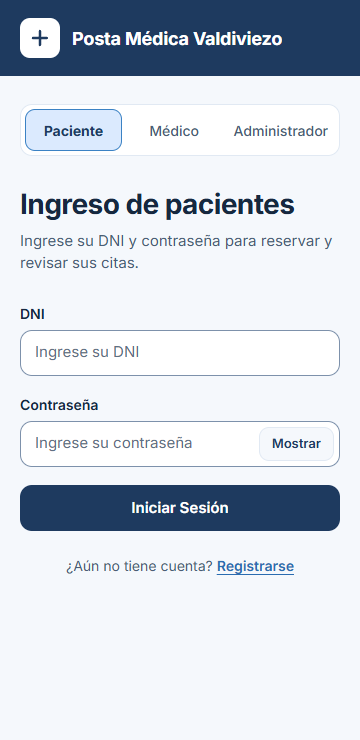
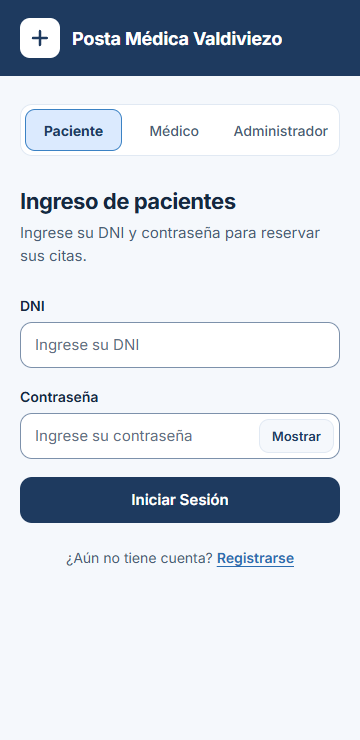
RFC-019: decisiones sobre AUD-DIS-12/09/05, catálogo E03/E04 y capturas a 360, 768, 1280 y 1920 px

diff --git a/docs/rfc/RFC-019.md b/docs/rfc/RFC-019.md
@@ -30,7 +30,7 @@ La interfaz se ve básica e inconsistente entre roles: cada pantalla trae sus pr
 - AUD-DIS-09: botones sin nombre accesible.
 - AUD-DIS-10: inconsistencias visuales y de términos entre roles.
 - AUD-DIS-11: pantallas internas del paciente sin menú ni "Cerrar sesión".
-- AUD-DIS-12: `alert()` nativo en el flujo del paciente.
+- AUD-DIS-12: `alert()` nativo en el flujo del paciente. **Parcial (decisión del usuario, 2026-11-23):** queda **fuera** de RFC-019 la parte del `alert()` nativo, porque cambiarlo altera la salida de P12 (que registra ese texto). Solo se atiende la parte de presentación del aviso si no cambia el texto que ven las pruebas.
 
 ### Por qué ocurre (causa)
 No existe una capa de diseño compartida: `frontend/src/styles.css` está vacío y cada componente declara sus colores, radios y tipografía en su propio CSS. Los hallazgos de accesibilidad nacen de eso: cada componente repite sus propios errores (por ejemplo, el mismo `outline: none` en cada login) y no hay un mínimo común que cumplir.
@@ -76,6 +76,10 @@ Referencia de estructura (no de colores): carpeta de guía de diseño PASO (logi
 - **AUD-DIS-12 (quitar `alert()` del paciente) frente a P12:** P12 registra el texto del `alert()` nativo ("Cita registrada con éxito"). Cambiarlo por un aviso en pantalla cambia la salida de P12; la batería tendría que actualizarse, y esa decisión es del usuario (CLAUDE.md).
 - **AUD-DIS-09 (nombre del botón "×") y AUD-DIS-05 (modales) frente a P21 y P22:** esas pruebas guardan el texto completo del modal. Cambiar "×" por otro texto o agregar texto al modal cambia su salida.
 - Mientras no haya decisión, esas partes del rediseño solo pueden cambiar la presentación, no el texto ni la estructura que ven las pruebas.
+- **Decisiones del usuario (2026-11-23, tarea 31, corrección de la Parte 1):**
+  - AUD-DIS-12 queda **parcial y fuera de RFC-019** en lo del `alert()`; no se modifica P12.
+  - AUD-DIS-09 y AUD-DIS-05: solo se agrega `aria-label="Cerrar"` a los dos botones "×" (modales de Citas Pendientes y de Pacientes del médico), **sin cambiar** su texto ni el del modal. No se modifican P21 ni P22. El resto de AUD-DIS-05 (foco atrapado, Escape, `role="dialog"`) no se hizo y queda para la parte del médico, sujeto a que no cambie lo que ven P21/P22.
+  - La fuente Inter local (en lugar de Google Fonts) queda para la Parte 5.
 
 ## Alternativas evaluadas
 
@@ -94,6 +98,7 @@ Referencia de estructura (no de colores): carpeta de guía de diseño PASO (logi
 - Partes siguientes: plantillas y CSS de paciente, médico y administrador.
 - Sin cambios en backend, servicios, guardas ni rutas.
 - Prueba nueva: `e2e/tests/rediseno-acceso.spec.ts` (criterios de aceptación de la Parte 1). Script de capturas: `docs/entrega/rediseno/capturas.cjs`.
+- Corrección visual de la Parte 1 (revisada por el usuario en el navegador): (1) el panel de marca agrupa logo, mensaje y tarjetas en un bloque desde arriba y su ancho es `clamp(380px, 40%, 640px)`, para que no ocupe media pantalla en monitores anchos; (2) el contenido de la derecha arranca desde arriba (no centrado en vertical) y el subtítulo reserva 2 líneas en celular, de modo que el selector, el primer campo y el botón quedan a la misma altura en los 3 logins (medido de 320 a 2600 px). Archivos: `auth-layout.component.css`, `styles.css`, `login-paciente.component.html` (texto del subtítulo) y los dos `.html` de médico con `aria-label="Cerrar"`.
 - Decisión de diseño: por debajo de 900 px el panel azul se reduce a una franja con la marca; el mensaje y las dos tarjetas se ocultan para que el formulario quede a la vista en el celular.
 
 ### Impacto en las pruebas existentes
@@ -139,6 +144,7 @@ Volver a `develop` en el commit anterior a la rama (referencia: tag `LB-11` = v1
 |---|---|---|
 | 2026-11-23 18:04 | Registrado | Se registró RFC-019 (tarea 31, partes 0 y 1). Aún no se evaluó ni se aprobó formalmente. |
 | 2026-11-23 18:40 | En implementación (Parte 1) | Estado registrado a esta hora, después de implementar la Parte 1 en `feature/rfc-019-rediseno-base` (el trabajo empezó a las 18:02; la hora de este renglón es la de su registro). Regresión sin diferencias contra LB-11 (`docs/evidencias/t31-rfc019-parte1.txt`). La aprobación formal del comité sigue pendiente; las partes siguientes no se han empezado. |
+| 2026-11-23 19:21 | En implementación (Parte 1, corrección visual) | Registro de la corrección visual pedida por el usuario tras verla en el navegador: panel izquierdo agrupado y de ancho acotado, formulario sin saltos entre roles, `aria-label="Cerrar"` en los "×", decisiones sobre AUD-DIS-12/09/05, `.impeccable/` en `.gitignore`. Detalle en `docs/BITACORA.md`. |
 
 ---
 

diff --git a/docs/PRUEBAS.md b/docs/PRUEBAS.md
@@ -872,7 +872,9 @@ Script de la base de datos (desde LB-4): `database/BDPostaMedica.sql`.
 
 **E2E nueva (RFC-011, tarea 26):** `e2e/tests/sesion-token.spec.ts` (E02, 4 casos): el login del paciente guarda un token (3 partes) y "Cerrar Sesión" lo borra; con la sesión del paciente 1 y `userId` cambiado a `4` en localStorage, `/api/historia_clinica` devuelve solo historias del paciente 1 y la pantalla no muestra "VIH" (AUD-PRI-02); con un token manipulado, `GET /api/cita` → 401, la app va a `/login-selection?sesion=expirada` con el aviso y localStorage queda vacío; sin sesión, `/admin/pacientes` lleva a `/login-admin` sin pedir `/api/paciente`. Desde la tarea 26 hay 11 pruebas de Playwright (7 + 4).
 
-**E2E nueva (RFC-019, Parte 1, tarea 31):** `e2e/tests/rediseno-acceso.spec.ts` (E03, 5 casos; solo necesita el frontend). Criterios de aceptación de las pantallas de acceso: (1) el selector de rol (`nav[aria-label="Tipo de usuario"]`) navega a `/login-medico`, `/login-admin` y `/login-paciente` y marca el activo con `aria-current="page"`; (2) `a[href="/registro"]` solo existe en `/login-paciente`; (3) todo `input/select/textarea` de los 3 logins y del registro tiene `label` asociada; (4) el envío vacío de cada login muestra `.error-message` con `role="alert"`, y `/login-selection?sesion=expirada` muestra `.aviso-sesion` con el texto "Su sesión expiró o no es válida" y `role="alert"`; (5) `scrollWidth` ≤ ancho de ventana a 360 y 1280 px en las 5 pantallas. Resultado sobre `14d2289` (tarea 31, 18:37:45): Playwright **16 pasan** (11 de antes + 5). Es una prueba nueva: no cambia el resultado de ninguna prueba existente.
+**E2E nueva (RFC-019, Parte 1, tarea 31):** `e2e/tests/rediseno-acceso.spec.ts` (**E03**; la cabecera del archivo la llama `E-RFC019-1`: es la misma prueba, E-RFC019-1 = E03; 5 casos; solo necesita el frontend). Criterios de aceptación de las pantallas de acceso: (1) el selector de rol (`nav[aria-label="Tipo de usuario"]`) navega a `/login-medico`, `/login-admin` y `/login-paciente` y marca el activo con `aria-current="page"`; (2) `a[href="/registro"]` solo existe en `/login-paciente`; (3) todo `input/select/textarea` de los 3 logins y del registro tiene `label` asociada; (4) el envío vacío de cada login muestra `.error-message` con `role="alert"`, y `/login-selection?sesion=expirada` muestra `.aviso-sesion` con el texto "Su sesión expiró o no es válida" y `role="alert"`; (5) `scrollWidth` ≤ ancho de ventana a 360 y 1280 px en las 5 pantallas. Resultado sobre `14d2289` (tarea 31, 18:37:45): Playwright **16 pasan** (11 de antes + 5). Es una prueba nueva: no cambia el resultado de ninguna prueba existente.
+
+**E2E nueva (RFC-019, Parte 1, corrección visual):** `e2e/tests/rediseno-acceso-estable.spec.ts` (**E04**, 5 casos; solo necesita el frontend). Al pasar de `/login-paciente` a `/login-medico` y `/login-admin`, el selector de rol (`.auth-roles`), el primer `input` y `button[type="submit"]` quedan a la misma altura (`getBoundingClientRect().top`) a 360, 768, 1280 y 1920 px (4 casos), y el panel `.auth-brand` mide como máximo 640 px a 1920 px (1 caso).
 
 > **Hotfix RFC-010:** U33–U41, `AuthControllerTest`, U80 y U81 cambiaron solo la construcción de los autenticadores (reciben un `PasswordEncoder`) y guardan el hash en las entidades simuladas; sus aserciones son las mismas. U55 solo agrega un `@Spy PasswordEncoder`. U49 cambió de sentido (ver su fila). Detalle antes/después en `docs/rfc/RFC-010.md`.
 

diff --git a/docs/HALLAZGOS.md b/docs/HALLAZGOS.md
@@ -164,7 +164,8 @@ La tarea 18 pidió agregar hallazgos nuevos solo para lo que se va a trabajar. L
 
 - **Archivos de componentes duplicados y sin uso.** En `frontend/src/app/features/auth/` existen `login-selection/login-selection.html` y `login-selection.ts` (texto "Bienvenido al Hospital María Auxiliadora") y `registro/registro.html` y `registro.ts`, además de los `.component.*` que usa `app.routes.ts`. Nada los importa. No se tocaron (fuera del alcance de la RFC-019 Parte 1). Quitarlos sería una refactorización aparte.
 - **Inter se pide a Google Fonts.** `index.html` agrega una petición externa al abrir la app (decisión del usuario en el pedido). Sin red, se usa Segoe UI o Arial. Para producción conviene decidir si se aloja la fuente en el propio proyecto (privacidad y CSP).
-- **El registro sigue usando `alert()` nativo** al registrarse (`registro.component.ts`). Es parte de AUD-DIS-12; se resuelve en la parte del paciente de la RFC-019, no en esta.
+- **El registro sigue usando `alert()` nativo** al registrarse (`registro.component.ts`). Es parte de AUD-DIS-12. **Decisión del usuario (2026-11-23): AUD-DIS-12 queda parcial y fuera de RFC-019 en lo del `alert()`**, porque cambiarlo altera la salida de P12; necesita otra RFC y que el usuario decida cómo se actualiza esa prueba.
+- **AUD-DIS-09 y AUD-DIS-05, avance parcial (RFC-019):** los dos botones "×" de los modales del médico (Citas Pendientes y Pacientes) ahora tienen `aria-label="Cerrar"`, sin cambiar su texto. Siguen abiertos el foco atrapado, la tecla Escape y `role="dialog"` de AUD-DIS-05, y los botones sin nombre que no son esos dos. No se modifican P21 ni P22.
 
 ## Observaciones sin número (tarea 22, revisión de los PR; decide el usuario si se registran como hallazgo)
 
